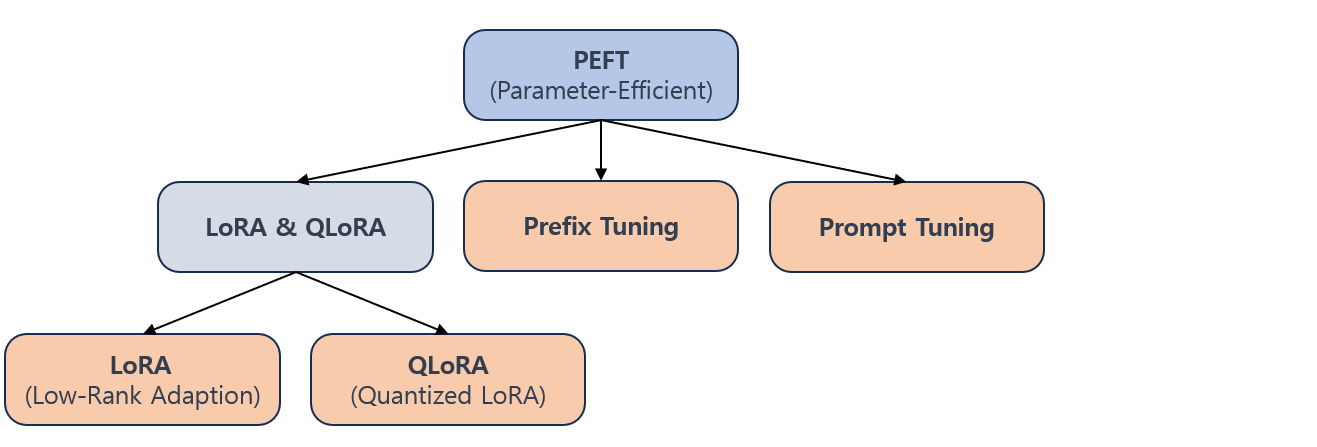
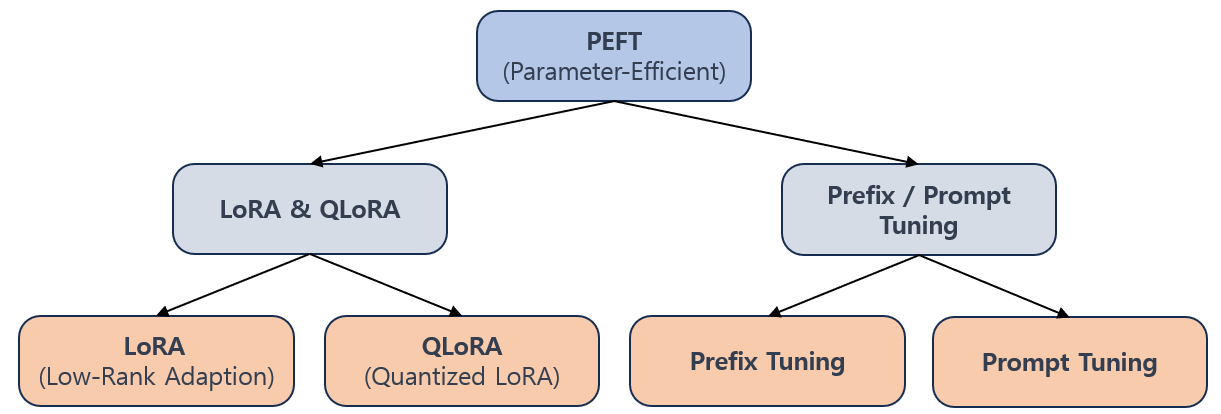
DOC: add Fine Tuning PEFT doc

diff --git a/AI Basics/LLM Basics/LLM_기초_Fine_Tuning_PEFT.md b/AI Basics/LLM Basics/LLM_기초_Fine_Tuning_PEFT.md
@@ -1,3 +1,135 @@
 ## 목차
 
-작성중
+* [1. PEFT (Parameter-Efficient Fine-Tuning)](#1-peft-parameter-efficient-fine-tuning)
+* [2. PEFT 방법론의 분류](#2-peft-방법론의-분류)
+  * [2-1. LoRA (Low-Rank Adaption)](#2-1-lora-low-rank-adaption)
+  * [2-2. QLoRA (Quantized LoRA)](#2-2-qlora-quantized-lora)
+  * [2-3. Prefix Tuning](#2-3-prefix-tuning)
+  * [2-4. Prompt Tuning](#2-4-prompt-tuning)
+  * [2-5. Adapter Layer 추가](#2-5-adapter-layer-추가)
+
+## 1. PEFT (Parameter-Efficient Fine-Tuning)
+
+**PEFT (Parameter-Efficient Fine-Tuning)** 는 [LLM 을 Fine-tuning](LLM_기초_Fine_Tuning.md) 시킬 때 **대부분의 파라미터는 추가 학습하지 않고, 소수의 파라미터에 대해서만 Fine-tuning** 을 하는 것을 의미한다.
+
+* 이를 통해 도메인에 최적화된 거대 언어 모델로서의 성능을 보장하면서도, 자원을 절약한다.
+
+PEFT 의 장단점은 다음과 같다.
+
+* 장점
+  * 거대 언어 모델의 수많은 파라미터 중 제한된 양의 파라미터 학습을 통한 **학습 시간 및 메모리 절약** 
+  * 일반적으로, 각 task 별로 서로 다른 모듈을 Fine-tuning 할 수 있어서 **다수의 task 에 유연하게 적용 가능**
+  * 대부분의 매개변수를 Freeze 시킨 채로 학습하기 때문에, **모델이 가지고 있는 일반 상식 등 기존 지식은 유지**
+  * [Overfitting](../Deep%20Learning%20Basics/딥러닝_기초_Overfitting_Dropout.md#2-딥러닝에서의-오버피팅-overfitting) 의 위험이 적다.
+* 단점
+  * 파라미터를 미세 조정할 범위에 따라 성능이 제한될 수 있음
+
+## 2. PEFT 방법론의 분류
+
+PEFT 의 방법론은 세부적으로 다음과 같이 분류할 수 있다.
+
+**1. Low-Rank Adaption (LoRA) 계열**
+
+| 방법론                                                                                       | 설명                                                      |
+|-------------------------------------------------------------------------------------------|---------------------------------------------------------|
+| [LoRA (Low-Rank Adaptation)](LLM_기초_Fine_Tuning_LoRA_QLoRA.md#2-lora-low-rank-adaptation) | 거대 언어 모델의 파라미터를 분해하여 일부 파라미터만 학습                        |
+| [QLoRA (Quantized LoRA)](LLM_기초_Fine_Tuning_LoRA_QLoRA.md#3-qlora-quantized-lora)         | [양자화 (Quantization)](LLM_기초_Quantization.md) 가 적용된 LoRA |
+
+**2. 필요한 Layer 또는 Vector 추가**
+
+| 방법론                                       | 설명                                                                                                                |
+|-------------------------------------------|-------------------------------------------------------------------------------------------------------------------|
+| [Prefix Tuning](#2-3-prefix-tuning)       | 각각의 [Transformer](../../Natural%20Language%20Processing/Basics_트랜스포머%20모델.md) Layer 의 앞에 "Task 에 특화된 Vector" 를 추가 |
+| [Prompt Tuning](#2-4-prompt-tuning)       | 학습 가능한 "Prompt Vector" 를 도입하여 LLM을 Fune-tuning                                                                    |
+| [Adapter Layer 추가](#2-5-adapter-layer-추가) | LLM 의 각 Layer 에 "Adapter Layer" 라는 모듈을 추가하고, 해당 모듈만 학습                                                            |
+
+![image](images/Fine_Tuning_PEFT_1.PNG)
+
+### 2-1. LoRA (Low-Rank Adaption)
+
+* LLM 의 **기존 파라미터 (가중치) 행렬을 저차원 행렬로 분해** 하여 학습한다.
+  * 이를 통해 연산량, 메모리 사용량 등 자원을 절약한다.
+* 자세한 것은 [LoRA (Low-Rank Adaptation)](LLM_기초_Fine_Tuning_LoRA_QLoRA.md#2-lora-low-rank-adaptation) 참고.
+
+### 2-2. QLoRA (Quantized LoRA)
+
+* LoRA + [양자화 (Quantization)](LLM_기초_Quantization.md) 의 개념이다.
+* 자세한 것은 [QLoRA (Quantized LoRA)](LLM_기초_Fine_Tuning_LoRA_QLoRA.md#3-qlora-quantized-lora) 참고.
+
+### 2-3. Prefix Tuning
+
+[(논문) Prefix-tuning: Optimizing continuous prompts for generation](https://arxiv.org/pdf/2101.00190)
+
+**Prefix Tuning** 은 각각의 [Transformer](../../Natural%20Language%20Processing/Basics_트랜스포머%20모델.md) Layer 의 앞에 **학습 가능한 벡터 (prefix)** 를 추가하여, **해당 벡터만 Fine-tuning** 시키는 것이다. 그 장점은 다음과 같다.
+
+* LLM 에 Transformer 가 여러 개 있는 경우, LLM 이 Fine-tuning 을 통해 학습해야 할 서로 다른 task 간에 서로 다른 Prefix 벡터 적용 가능 
+* prefix 만 Fine-tuning 하면 되므로 자원 (메모리 및 학습 시간) 이 절약됨
+
+![image](images/Fine_Tuning_PEFT_2.PNG)
+
+* [(출처)](https://arxiv.org/pdf/2101.00190) : Xiang Lisa Li and Percy Liang, Prefix-Tuning: Optimizing Continuous Prompts for Generation, 2021
+
+![image](images/Fine_Tuning_PEFT_3.PNG)
+
+**[ Prefix Tuning 의 Loss-Function ]**
+
+* 핵심 아이디어
+  * 모델이 **예측한 next token 이 실제 next token 과 일치할 확률을 최대화** 하는, **조건부 확률** 에 기반한 log-likelihood
+  * 실제 수식에서는 이 확률에 로그를 씌우므로, **log (확률) 의 합** 을 최대화하는 것이 된다. 
+* 수식
+  * $\max_\pi \log p_{\pi;\theta} (y|x)$
+  * = $\Sigma_{i \in Y_{idx}} log p_{\pi;\theta} (z_i | h_{<i})$ 
+* 수식 설명
+  * $p_{\pi;\theta}$ : 거대 언어 모델의 확률분포 (학습 가능)
+    * $\pi$ : 모델의 pre-trained parameters
+    * $\theta$ : 모델의 학습 가능한 파라미터
+  * $z$ : 입력 토큰 리스트 $x$ 와 출력 토큰 리스트 $y$ 의 concatenation
+  * $h_i = LM_\pi (z_i, h_{<i})$ : $i$ 번째 token $z_i$ 생성을 위한, LLM 의 모든 activation layer 의 결합 
+
+### 2-4. Prompt Tuning
+
+[(논문) The Power of Scale for Parameter-Efficient Prompt Tuning](https://arxiv.org/pdf/2104.08691)
+
+**Prompt Tuning** 은 LLM의 입력 부분에 **학습 가능한 "Prompt Vector" 를 도입** 하여, **Prompt 만 Fune-tuning** 하는 것을 말한다. 자연어인 사용자 프롬프트를 조정하는 [Prompt Enginnering](LLM_기초_Prompt_Engineering.md) 과는 **다른 개념** 이다.
+
+* Fine-tuning을 통해 **모델이 프롬프트를 유연하게 학습하며 모델 자체적으로 최적으로 업데이트** 하는 것을 목표로 한다.
+
+그 장점은 다음과 같다.
+
+* Prompt 에 해당하는 입력 부분이 **pre-trained parameter 만에 의해 결정되지 않고** 유연하게 학습 가능 
+* 사람이 관여하는 [Prompt Enginnering](LLM_기초_Prompt_Engineering.md) 과 달리 Prompt 부분을 **자동 학습** 하므로, 관련 인력 및 인건비 절감
+* Prefix Tuning 과 유사하게, Prompt 만 Fine-tuning 하면 되므로 자원 (메모리 및 학습 시간) 이 절약됨
+
+![image](images/Fine_Tuning_PEFT_4.PNG)
+
+* [(출처)](https://arxiv.org/pdf/2104.08691) : The Power of Scale for Parameter-Efficient Prompt Tuning, 2021
+
+**[ Prompt Tuning 의 Loss Function ]**
+
+* 핵심 아이디어
+  * Prefix Tuning 의 Loss Function 과 동일하게 **next token 의 조건부 확률의 곱 또는 로그 합**을 이용
+* $\max_\pi \log p_{\theta;\theta_P} (y|[P;x])$
+  * $\theta$ : pre-trained model parameters
+  * $\theta_P$ : 학습 가능한 Prompt Vector 의 하이퍼파라미터
+  * $P$ : 모델에 새로 추가된 Prompt Vector
+
+### 2-5. Adapter Layer 추가
+
+PEFT 의 방법론 중 **LLM 의 각 Layer 에 "Adapter Layer" 라는 모듈을 추가하고, 해당 모듈만 학습** 시키는 방법이 있다. 그 장점은 다음과 같다.
+
+* Adapter 에 해당하는 특정 부분들만 학습시키므로, Prefix Tuning, Prompt Tuning 과 같이 자원이 절약된다.
+* task 별로 서로 다른 Adapter 를 적용하여 **다수의 task 에 LLM 을 유연하게 Fine-tuning** 할 수 있다.
+
+Adapter Layer 를 추가하여 LLM 에 적용하는 방법은 다음과 같다. [(참고 논문)](https://arxiv.org/pdf/1902.00751)
+
+* Transformer Layer 에서 Feed-forward Layer 와 Skip connection 부분 사이에 Adapter Layer 를 추가한다.
+* Adapter Layer 는 다음과 같은 **bottleneck 구성** 으로 되어 있다.
+  * Layer 1 → feed-forward down projection → Layer 2 → Non-linear → Feed-forward up projection → Layer 3
+
+![image](images/Fine_Tuning_PEFT_5.PNG)
+
+* [(출처)](https://arxiv.org/pdf/1902.00751) : Parameter-Efficient Transfer Learning for NLP, 2019
+
+**[ Adapter Layer 추가 시의 Loss Function ]**
+
+* Prefix Tuning 및 Prompt Tuning 의 Loss Function 과 동일한 손실 함수를 이용할 수 있다. 즉 **next token 의 조건부 확률의 곱 또는 로그 합**을 이용한다.

diff --git a/AI Basics/LLM Basics/LLM_기초_Fine_Tuning.md b/AI Basics/LLM Basics/LLM_기초_Fine_Tuning.md
@@ -54,7 +54,7 @@ PEFT 의 세부 방법론은 다음과 같다.
 * [QLoRA (Quantized LoRA)](LLM_기초_Fine_Tuning_LoRA_QLoRA.md#3-qlora-quantized-lora)
   * [양자화 (Quantization)](LLM_기초_Quantization.md) 가 적용된 LoRA
 * Prefix Tuning
-  * 사용자 입력 프롬프트의 앞에 "Task 에 특화된 Vector" 를 추가
+  * 각각의 [Transformer](../../Natural%20Language%20Processing/Basics_트랜스포머%20모델.md) Layer 의 앞에 "Task 에 특화된 Vector" 를 추가
 * Prompt Tuning
   * 학습 가능한 "Prompt Vector" 를 도입하여 LLM을 Fune-tuning 
 
